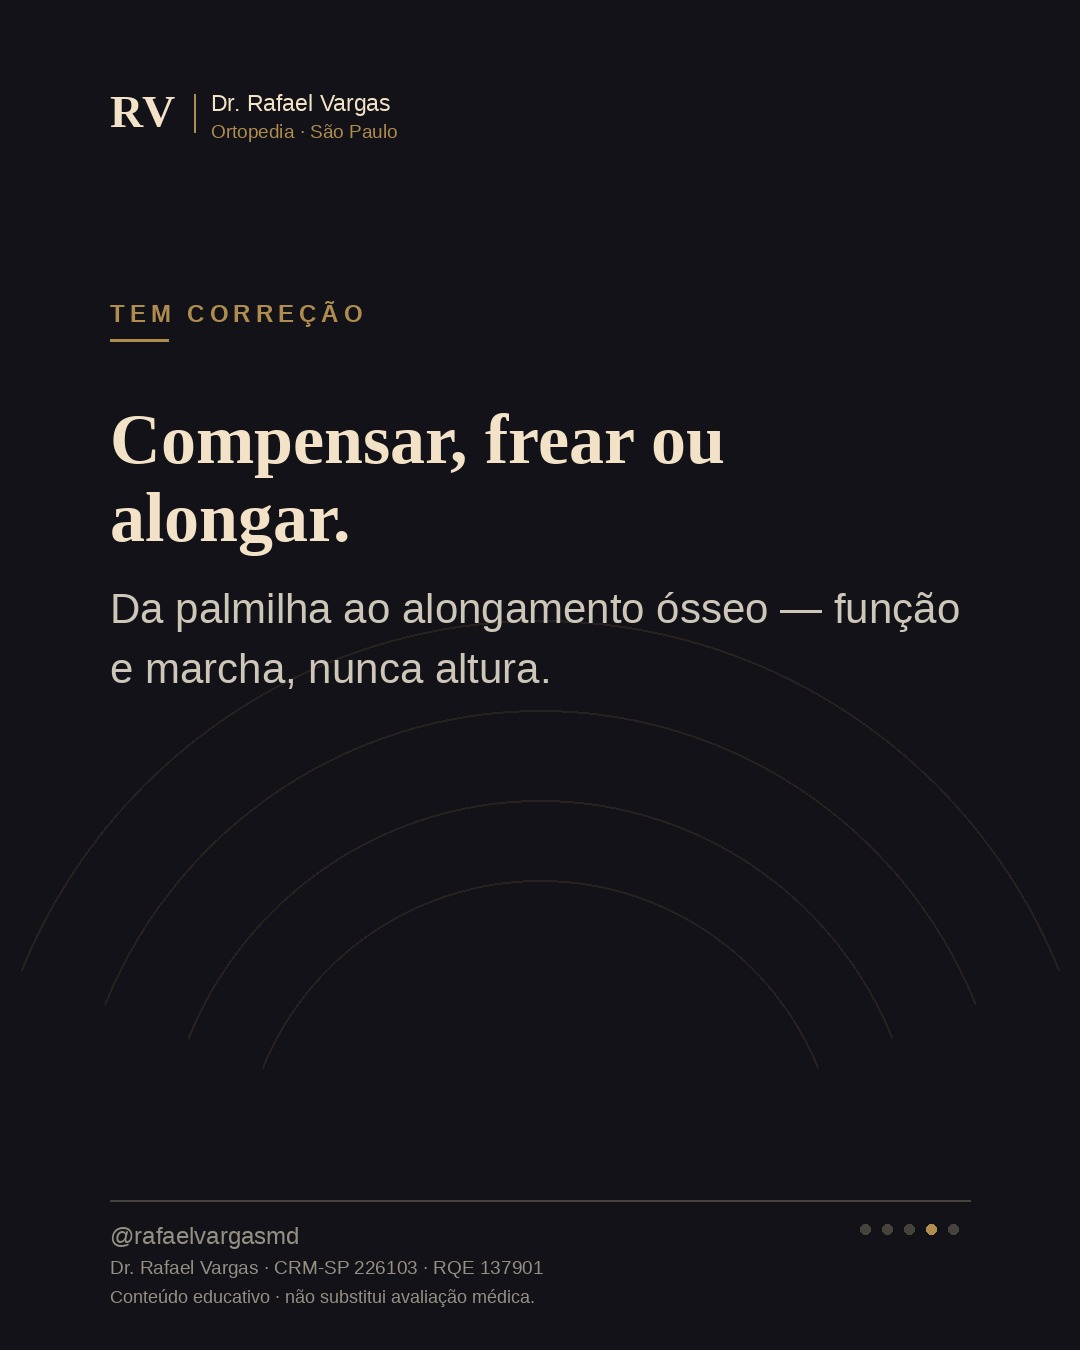
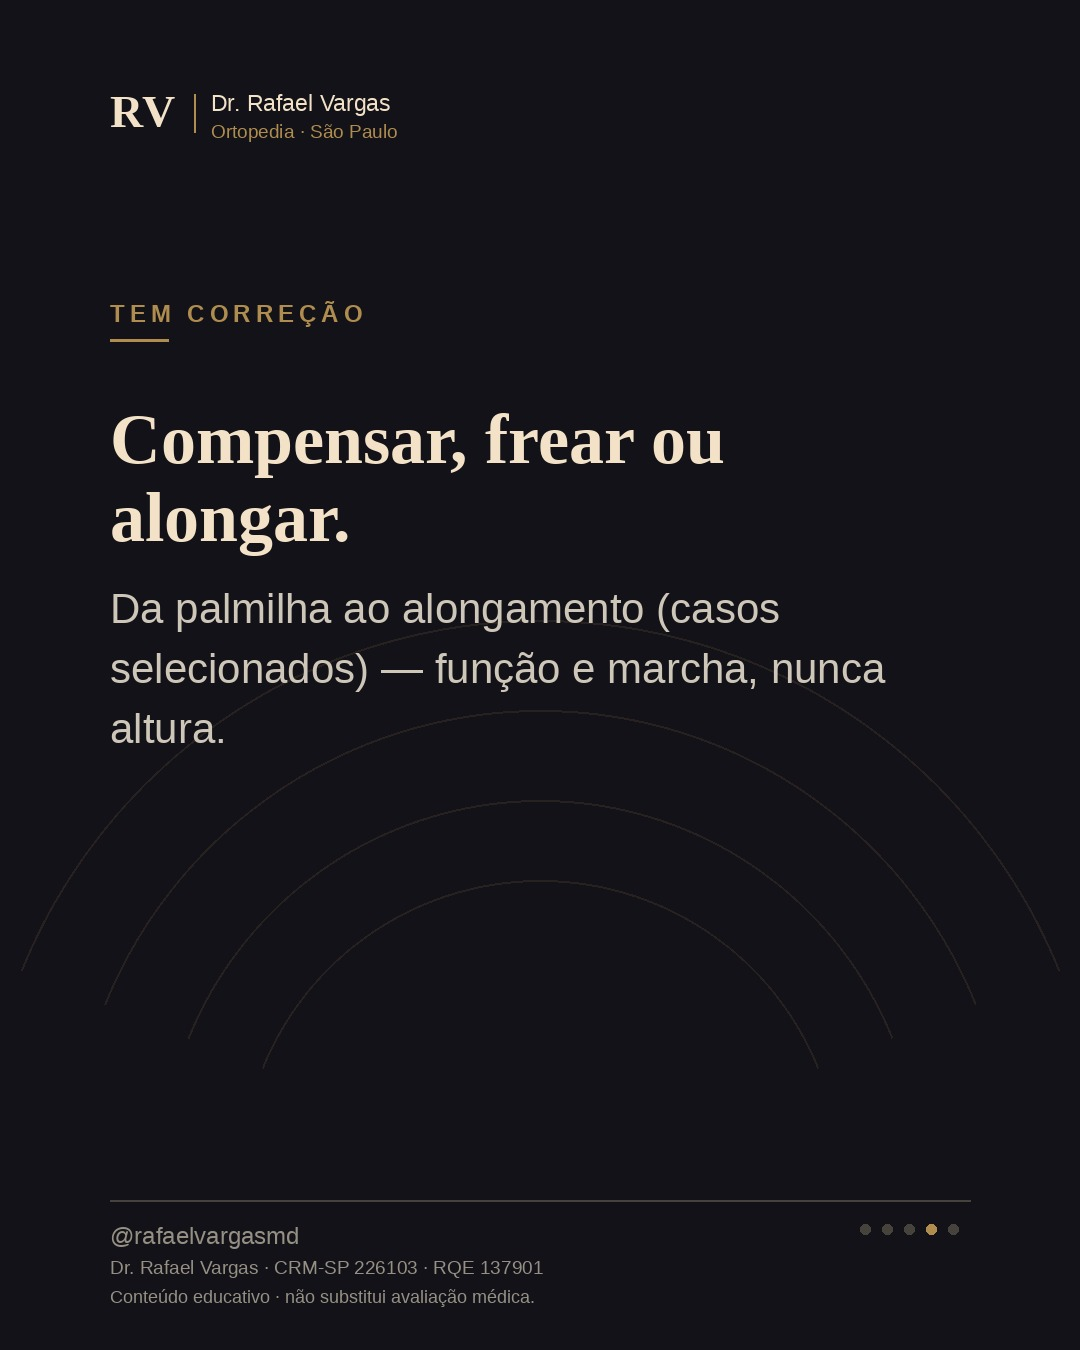
Revisao de tom dos reels Osso Novo: transporte osseo (sem sensacionalismo + sinaliza tratamento longo), pseudartrose (sem 'conserto'/garantia), discrepancia (alongamento em casos selecionados), osso cresce (gancho aterrado)

diff --git a/episodios_novos_2026.py b/episodios_novos_2026.py
@@ -35,7 +35,7 @@ OSSO_NOVO = [
  {"id":"on_osso_cresce","ep":1,"serie":"Osso Novo","temporada":"o-osso-se-refaz","motif_family":"bone",
   "scenes":[
    {"k":"Como assim?","sc":["O osso cresce","no espaço vazio."],"e":None,"sub":"Parece ficção — mas é biologia, e tem nome.",
-    "vo":"Parece coisa de ficção científica, mas é pura biologia. O corpo é capaz de fabricar osso novo onde antes não tinha nada."},
+    "vo":"Parece difícil de acreditar, mas é pura biologia: o corpo é capaz de fabricar osso novo onde antes não tinha nada."},
    {"k":"A ideia","sc":["Separe o osso","devagarinho."],"e":"devagarinho","sub":"As duas pontas afastam pouquíssimo por dia — e o vão não fica vazio.",
     "vo":"A sacada é separar as duas pontas do osso bem devagar. No vão que se abre, o corpo entende que precisa preencher e começa a produzir osso ali."},
    {"k":"O nome disso","sc":["Osteogênese","por distração."],"e":None,"sub":"Distrair = afastar. A tração lenta acorda a fábrica de osso.",
@@ -85,12 +85,12 @@ OSSO_NOVO = [
     "vo":"A palavra assusta, mas a ideia é simples: é um osso que parou de cicatrizar e ficou com mobilidade onde deveria estar firme. Uma falsa junta."},
    {"k":"Sinais","sc":["Dor que volta,","meses depois."],"e":None,"sub":"Dor no foco da fratura e sensação de instabilidade além do previsto.",
     "vo":"Os sinais costumam ser dor que insiste no lugar da fratura muito além do esperado, e uma sensação de que ali ainda mexe."},
-   {"k":"Tem solução","sc":["Não cola sozinha,","mas tem conserto."],"e":"conserto","sub":"Estabilizar, estimular e, às vezes, refazer o osso — caso a caso.",
-    "vo":"A boa notícia é que pseudartrose tem conserto. Geralmente envolve estabilizar melhor, estimular o osso e, em alguns casos, refazer aquele trecho. Sempre avaliado individualmente."},
+   {"k":"Tem caminho","sc":["Não cola sozinha,","mas tem caminho."],"e":"caminho","sub":"Estabilizar, estimular e, às vezes, refazer o osso — caso a caso.",
+    "vo":"A boa notícia é que pseudartrose costuma ter solução. Geralmente envolve estabilizar melhor, estimular o osso e, em alguns casos, refazer aquele trecho. Sempre avaliado caso a caso."},
    {"k":"Passa adiante","sc":["Salva: osso que","não cola tem saída."],"e":None,"sub":"Manda pra quem está há meses com uma fratura que não fecha.","cta":True,
     "vo":"Manda pra quem está há meses com uma fratura que não fecha. E no próximo: as três coisas que travam um osso. Uma você controla hoje."},
   ],
-  "caption":cap_rec("Pseudartrose: a fratura que não cola. Quando a consolidação falha, o osso fica com mobilidade onde deveria estar firme — uma 'falsa junta'. Os sinais costumam ser dor persistente no foco da fratura e sensação de instabilidade muito além do tempo esperado. Tem conserto: estabilizar melhor, estimular o osso e, às vezes, refazer o trecho. Sempre individualizado.","#pseudartrose #fratura")},
+  "caption":cap_rec("Pseudartrose: a fratura que não cola. Quando a consolidação falha, o osso fica com mobilidade onde deveria estar firme — uma 'falsa junta'. Os sinais costumam ser dor persistente no foco da fratura e sensação de instabilidade muito além do tempo esperado. Costuma ter solução: estabilizar melhor, estimular o osso e, às vezes, refazer o trecho. Sempre individualizado.","#pseudartrose #fratura")},
 
  {"id":"on_tres_razoes","ep":5,"serie":"Osso Novo","temporada":"quando-o-osso-falha","motif_family":"bone",
   "scenes":[
@@ -139,8 +139,8 @@ OSSO_NOVO = [
 
  {"id":"on_transporte_osseo","ep":8,"serie":"Osso Novo","temporada":"refazer-e-realinhar","motif_family":"bone",
   "scenes":[
-   {"k":"Parece mágica","sc":["Dá pra 'transportar'","osso vivo."],"e":None,"sub":"Faltou um pedaço grande de osso? Ele pode ser refeito.",
-    "vo":"Esse é dos mais impressionantes. Quando falta um pedaço grande de osso, dá pra refazer movendo um segmento de osso vivo bem devagar pelo vão."},
+   {"k":"Quando falta osso","sc":["Dá pra refazer osso","que se perdeu."],"e":None,"sub":"Faltou um pedaço grande? Há um caminho — longo, mas possível.",
+    "vo":"Esse é um dos recursos mais poderosos da reconstrução. Quando falta um pedaço grande de osso, dá pra refazer movendo um segmento de osso vivo, bem devagar, pelo vão. É um processo longo, mas possível."},
    {"k":"Como funciona","sc":["Um pedaço desliza","e deixa osso atrás."],"e":None,"sub":"Atrás do segmento que avança, o corpo forma osso novo.",
     "vo":"Funciona assim: um pedaço do seu próprio osso vai sendo deslizado aos poucos pra dentro da falha. E atrás dele, naquele rastro, o corpo vai formando osso novo."},
    {"k":"De onde vem a ideia","sc":["O mesmo princípio","do milímetro."],"e":None,"sub":"É a osteogênese por distração aplicada a grandes perdas.",
@@ -148,9 +148,9 @@ OSSO_NOVO = [
    {"k":"Pra quê","sc":["Reconstruir o que","o trauma levou."],"e":None,"sub":"Devolver osso, comprimento e função — nunca estética.",
     "vo":"O objetivo é devolver osso, comprimento e função pra um membro que quase foi perdido. É reconstrução de função, nunca questão estética."},
    {"k":"Passa adiante","sc":["Salva: osso","perdido se refaz."],"e":None,"sub":"Manda pra quem acha que falta de osso não tem solução.","cta":True,
-    "vo":"Salva essa esperança e compartilha. E quando o osso não falta, mas está torto? É o próximo."},
+    "vo":"Salva e compartilha — é técnica e tempo, não promessa. E quando o osso não falta, mas está torto? É o próximo."},
   ],
-  "caption":cap_rec("Transporte ósseo: refazer osso que se perdeu. Quando um trauma ou uma infecção leva um pedaço grande de osso, um segmento do próprio osso vivo é deslizado lentamente pelo vão — e atrás dele o corpo forma osso novo (a mesma osteogênese por distração). O objetivo é devolver osso, comprimento e função a um membro que quase foi perdido. Reconstrução de função, nunca estética.","#transporteosseo #reconstrucao")},
+  "caption":cap_rec("Transporte ósseo: refazer osso que se perdeu. Quando um trauma ou uma infecção leva um pedaço grande de osso, um segmento do próprio osso vivo é deslizado lentamente pelo vão — e atrás dele o corpo forma osso novo (a mesma osteogênese por distração). O objetivo é devolver osso, comprimento e função a um membro que quase foi perdido — num tratamento longo, em etapas. Reconstrução de função, nunca estética.","#transporteosseo #reconstrucao")},
 
  {"id":"on_osteotomia","ep":9,"serie":"Osso Novo","temporada":"refazer-e-realinhar","motif_family":"bone",
   "scenes":[
@@ -190,12 +190,12 @@ OSSO_NOVO = [
     "vo":"Diferenças pequenas a gente nem sente. Mas, a partir de certo ponto, começa a mancar, e isso sobrecarrega coluna, quadril e joelho com o tempo."},
    {"k":"De onde vem","sc":["Fratura, infecção","ou de nascença."],"e":None,"sub":"Sequela de fratura, infecção antiga ou diferença congênita.",
     "vo":"Pode vir de uma fratura que afetou o crescimento, de uma infecção antiga, ou ser de nascença que persistiu até a vida adulta."},
-   {"k":"Tem correção","sc":["Compensar, frear","ou alongar."],"e":None,"sub":"Da palmilha ao alongamento ósseo — função e marcha, nunca altura.",
-    "vo":"E o leque de soluções é grande: vai de uma palmilha que compensa, até alongar o osso mais curto. Sempre pra equilibrar a marcha e a função, nunca uma questão de altura."},
+   {"k":"Tem correção","sc":["Compensar, frear","ou alongar."],"e":None,"sub":"Da palmilha ao alongamento (casos selecionados) — função e marcha, nunca altura.",
+    "vo":"E o leque de soluções é grande: vai de uma palmilha que compensa, até alongar o osso mais curto, em casos selecionados. Sempre pra equilibrar a marcha e a função, nunca uma questão de altura."},
    {"k":"Passa adiante","sc":["Salva: perna curta","tem escada de soluções."],"e":None,"sub":"Manda pra quem manca e nunca mediu.","cta":True,
     "vo":"Salva e compartilha. Mas antes de corrigir qualquer coisa, tem um passo que ninguém pula: medir direito. É o próximo."},
   ],
-  "caption":cap_rec("Uma perna mais curta que a outra, no adulto. Diferenças pequenas nem se sentem; a partir de certo ponto, começa a mancar e a sobrecarregar coluna, quadril e joelho. Pode vir de fratura, infecção antiga ou ser congênita. As soluções formam uma escada: da palmilha que compensa até o alongamento do osso mais curto — sempre para equilibrar marcha e função, nunca uma questão de altura.","#discrepancia #marcha")},
+  "caption":cap_rec("Uma perna mais curta que a outra, no adulto. Diferenças pequenas nem se sentem; a partir de certo ponto, começa a mancar e a sobrecarregar coluna, quadril e joelho. Pode vir de fratura, infecção antiga ou ser congênita. As soluções formam uma escada: da palmilha que compensa até o alongamento do osso mais curto, em casos selecionados — sempre para equilibrar marcha e função, nunca uma questão de altura.","#discrepancia #marcha")},
 
  {"id":"on_medir_antes","ep":12,"serie":"Osso Novo","temporada":"os-caminhos-do-conserto","motif_family":"bone",
   "scenes":[
